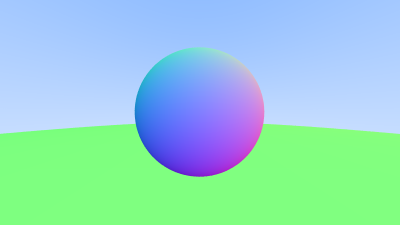
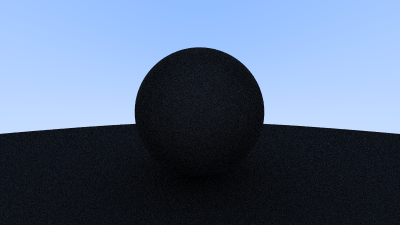
7.2 done to add diffuse rendering

diff --git a/src/ray.rs b/src/ray.rs
@@ -19,9 +19,15 @@ impl Ray {
     }
 }
 
-pub fn colour(scene: &impl Object, ray: &Ray) -> Colour {
+pub fn colour(scene: &impl Object, ray: &Ray, depth: u8) -> Colour {
+    if depth == 0 {
+        return v!(0);
+    }
+
     if let Some(hit) = scene.hit(ray, (0.0, f64::INFINITY)) {
-        (hit.normal + v!(1)) / 2.0
+        let direction = hit.normal + Vec3::rand_unit();
+        let origin = hit.impact_point;
+        0.5 * colour(scene, &Ray::new(origin, direction), depth - 1)
     } else {
         let direction = ray.direction.normalise();
         let t = 0.5 * (direction.normalise().y + 1.0); //scale from -1 < y < 1 to  0 < t < 1

diff --git a/src/main.rs b/src/main.rs
@@ -15,6 +15,7 @@ fn main() {
     let img_width: u32 = 400;
     let img_height = (img_width as f64 / aspect_ratio) as u32;
     let samples: u32 = 100;
+    let max_depth = 50;
 
     //camera struct
     let camera = camera::Camera::default();
@@ -53,7 +54,7 @@ fn main() {
 
                 //get the ray from the camera and then colour it
                 let ray = camera.get_ray(u, v);
-                colour = colour + ray::colour(&objects, &ray);
+                colour = colour + ray::colour(&objects, &ray, max_depth);
             }
             //save pixel colour to buffer
             *px = (colour / (samples as f64)).to_rgb();

diff --git a/src/vector.rs b/src/vector.rs
@@ -34,6 +34,19 @@ impl Vec3 {
         self.x * other.x + self.y * other.y + self.z * other.z
     }
 
+    pub fn rand_unit() -> Self {
+        loop {
+            //random f64 range 0-1, scale it -1 to 1
+            let v = v!(rand::random::<f64>() * 2.0 - 1.0);
+
+            //if the vector lies in the unit sphere
+            if v.len() < 1.0 {
+                //normalise so it lies *on* the sphere and is a unit vector
+                break v.normalise();
+            }
+        }
+    }
+
     pub fn cross(&self, other: &Self) -> Self {
         Self {
             x: self.y * other.z - self.z * other.y,
